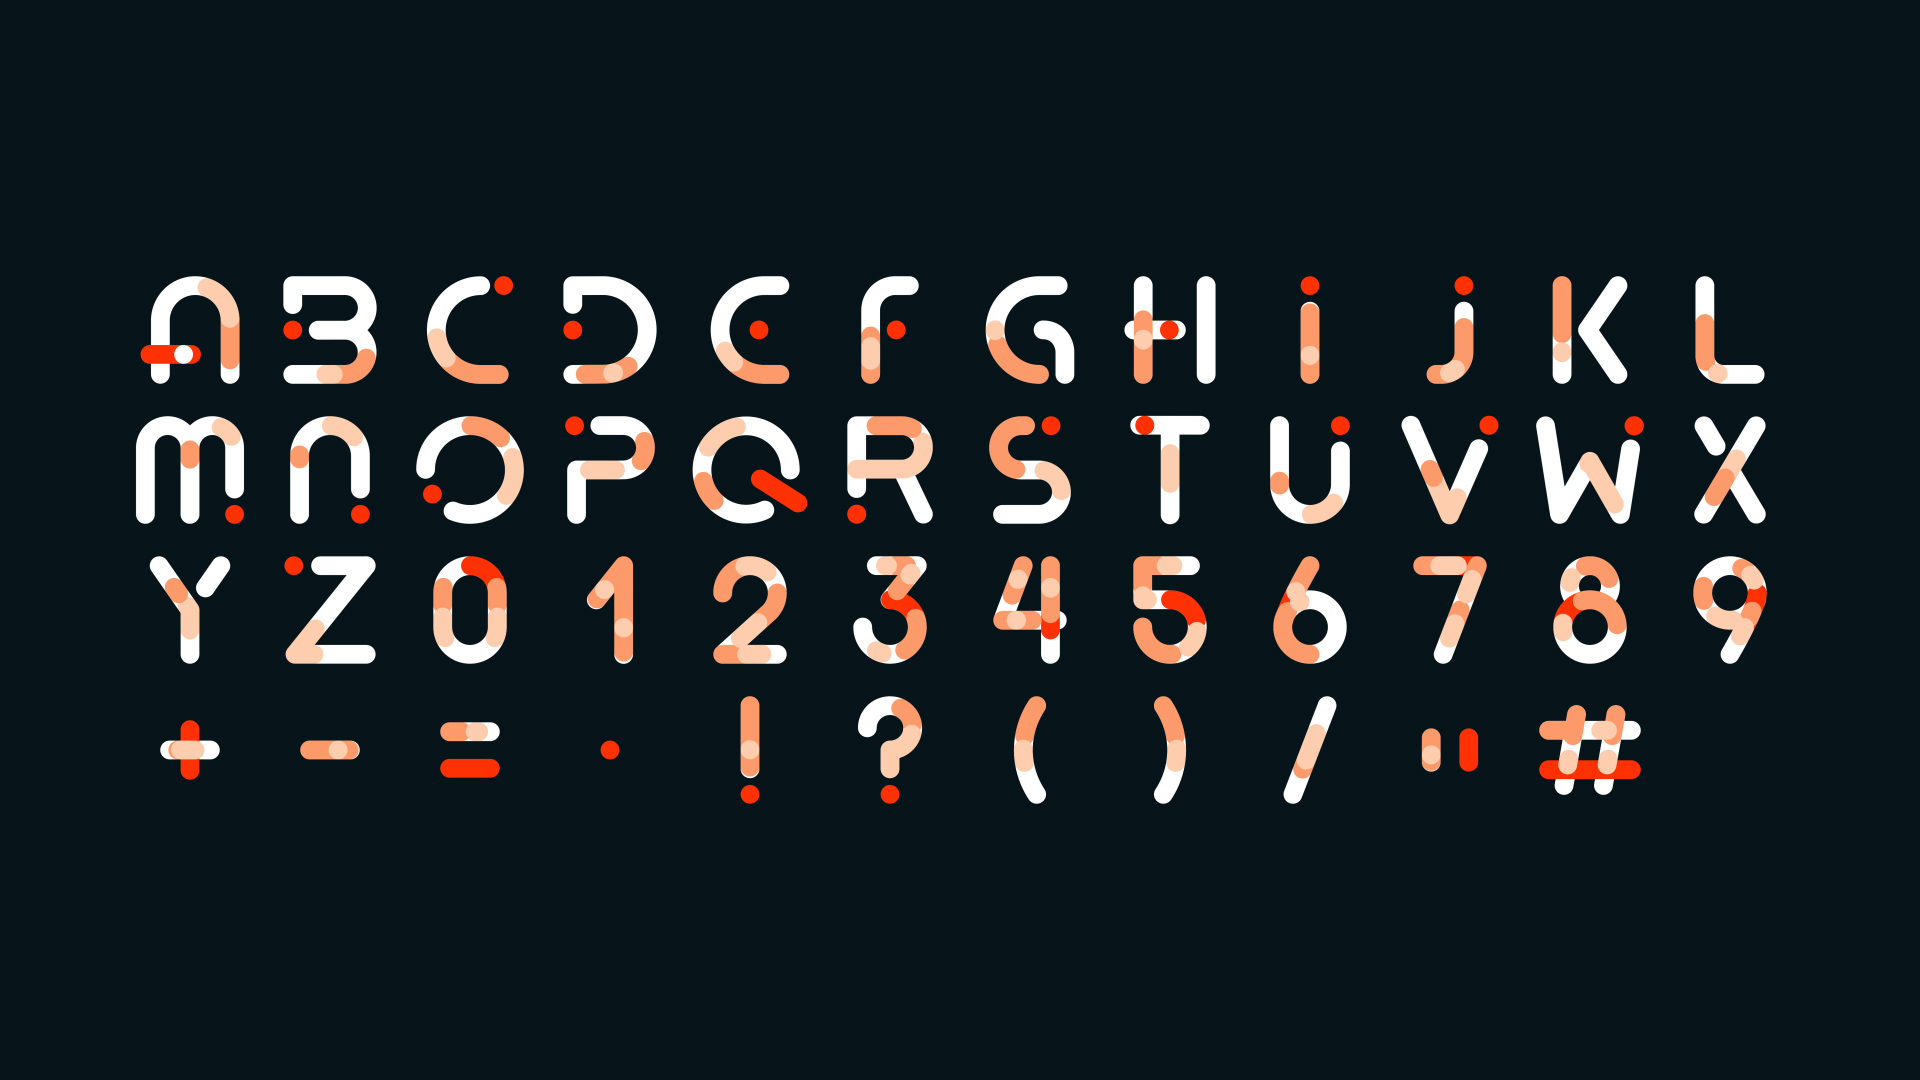
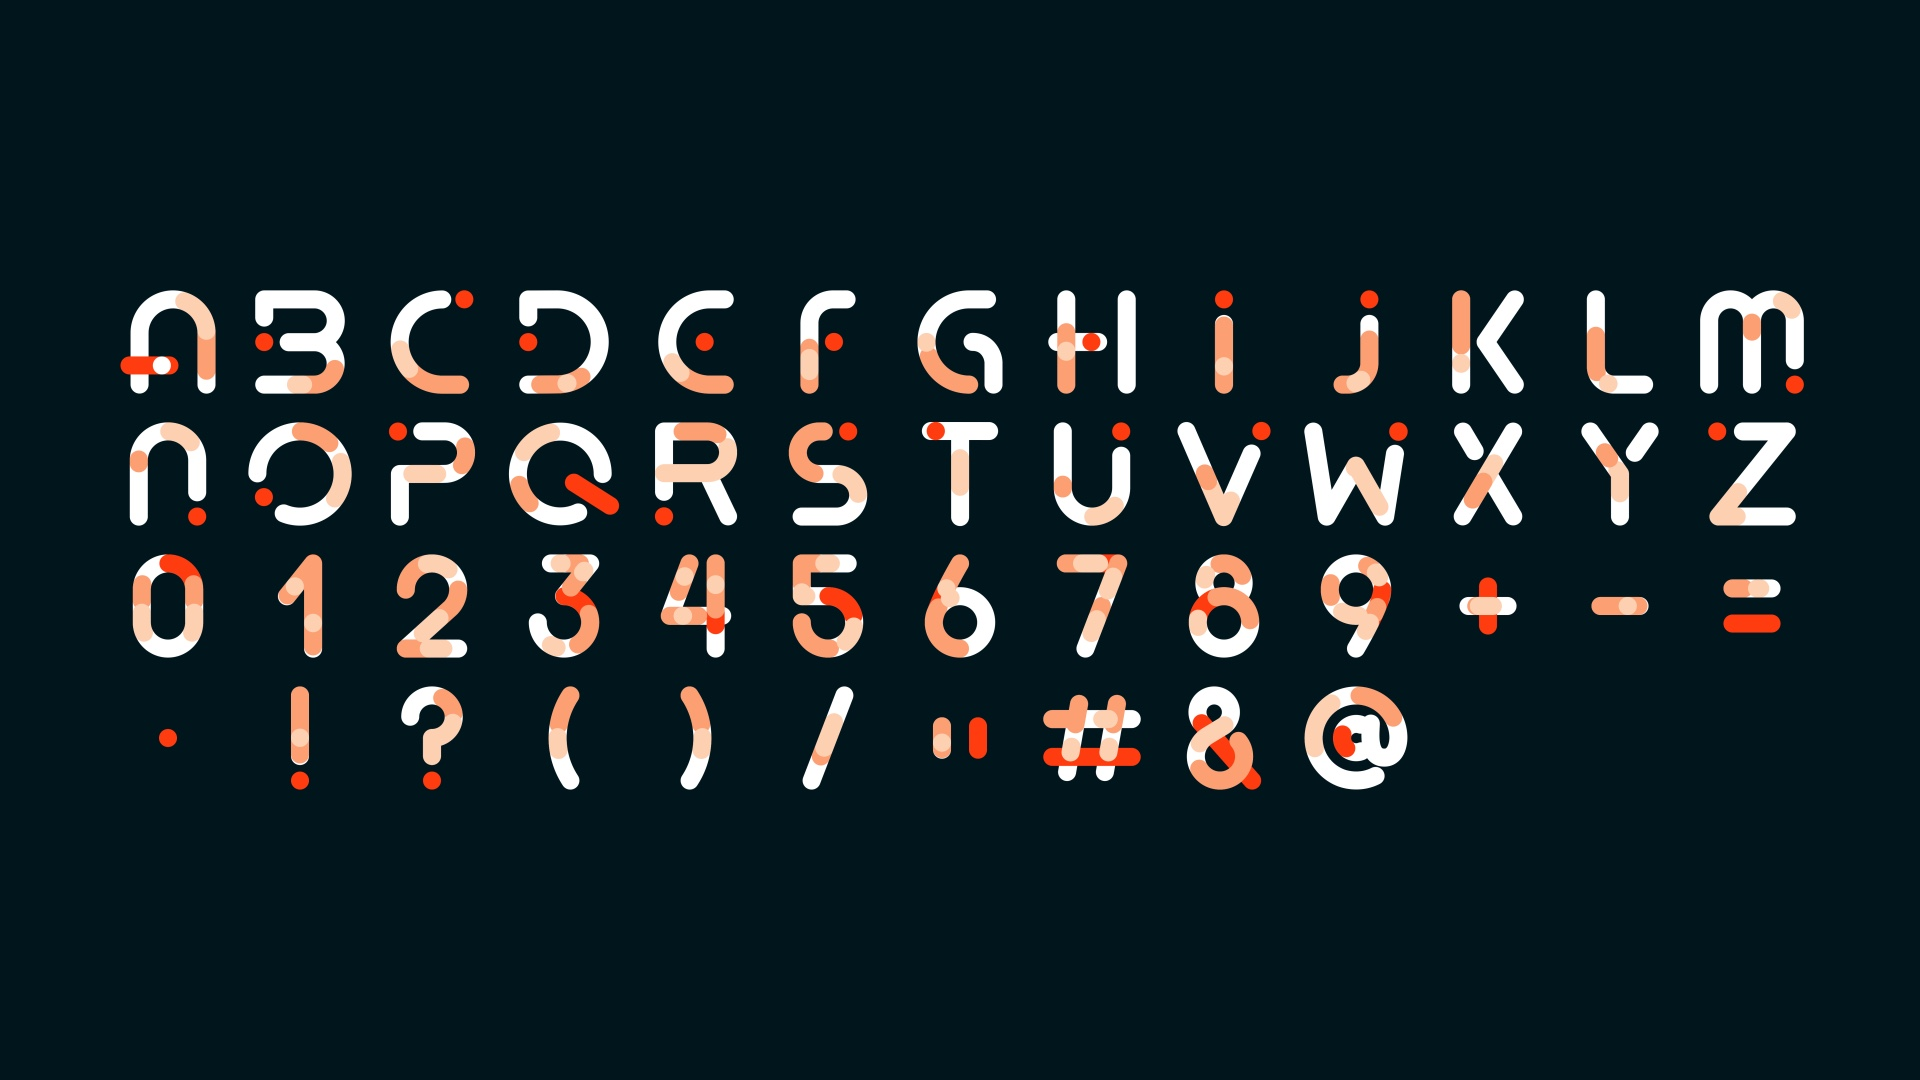
49 characters, YouTube intro link, getting-started step, download 0.4.0

Changed region(s): [[0.0625, 0.2444, 0.9375, 0.7639]]

diff --git a/index.html b/index.html
@@ -7,7 +7,8 @@
 
   Scroll animations: add data-reveal="left" | "right" | "up" to an element and
   js/main.js slides it in when it scrolls into view.
-  The Vimeo video is set in ONE place: VIMEO_ID at the top of js/main.js.
+  The Vimeo background video is set in ONE place: VIMEO_ID at the top of js/main.js.
+  "Watch the introduction video" links to YouTube: its href below (2026-10-29).
 -->
 <html lang="en">
 <head>
@@ -65,7 +66,7 @@
         <p class="lead">Trim Shady lives in one panel, right next to your comp. Type a word, choose your colors and rhythm, and it builds itself as native layers, ready for any project.</p>
         <div class="buttons">
           <a class="button" href="#get-it">Get Trim Shady</a>
-          <a class="button ghost" id="film-link" href="#" target="_blank" rel="noopener">Watch the 60-second film</a>
+          <a class="button ghost" id="film-link" href="https://youtu.be/t0fxN_1F6S0" target="_blank" rel="noopener">Watch the introduction video</a>
         </div>
       </div>
     </section>
@@ -85,7 +86,7 @@
           <h3>Multiline text input</h3>
           <p>Type a single word or a full headline. Press Enter for a new line, and every line builds up in its own rhythm.</p>
           <ul class="points">
-            <li>47 characters: A–Z, 0–9 and 11 symbols</li>
+            <li>49 characters: A–Z, 0–9 and 13 symbols</li>
             <li>Left, center or right aligned</li>
             <li>The comp is named for you</li>
           </ul>
@@ -155,10 +156,10 @@
     <section class="section alphabet" id="alphabet">
       <div class="head" data-reveal="up">
         <p class="kicker">The alphabet</p>
-        <h2 class="title">47 characters, one animated typeface.</h2>
+        <h2 class="title">49 characters, one animated typeface.</h2>
         <p class="lead narrow">Letters, numbers and punctuation, ready for your headlines.</p>
       </div>
-      <img class="alphabet-img" src="img/alphabet.jpg" width="1920" height="1080" alt="All 47 characters of the Trim Shady alphabet: A to Z, 0 to 9 and 11 symbols" loading="lazy" data-reveal="up">
+      <img class="alphabet-img" src="img/alphabet.jpg" width="1920" height="1080" alt="All 49 characters of the Trim Shady alphabet: A to Z, 0 to 9 and 13 symbols" loading="lazy" data-reveal="up">
     </section>
 
     <!-- 05 Get it: the sign-up form (Kit) comes here in the next step. -->
@@ -214,7 +215,7 @@
       <dl class="faq-list" data-reveal="up">
         <div><dt>Does it work without other plugins?</dt><dd>Yes. Everything is native to After Effects.</dd></div>
         <div><dt>Can I edit the result by hand?</dt><dd>Yes. Every word is made of native shape layers and precomps.</dd></div>
-        <div><dt>Which characters are included?</dt><dd>A–Z, 0–9 and 11 symbols, in an uppercase display style.</dd></div>
+        <div><dt>Which characters are included?</dt><dd>A–Z, 0–9 and 13 symbols, in an uppercase display style.</dd></div>
         <div><dt>Can I use it in commercial work?</dt><dd>Yes. Trim Shady is free, also for client work. Please don't resell or share the tool itself; point people to this page instead.</dd></div>
         <div><dt>Which After Effects versions are supported?</dt><dd class="tbd">To be confirmed after the team test round.</dd></div>
         <div><dt>Where do I get support?</dt><dd class="tbd">Support channel to be decided.</dd></div>

diff --git a/js/main.js b/js/main.js
@@ -1,31 +1,25 @@
 /* ---------------------------------------------------------------------------
    Trim Shady · landing page script
    1. Hero video: the intro film from Vimeo, muted, looping, in the background.
-   2. "Watch the 60-second film": opens the same film on Vimeo, with sound.
+   2. (The "Watch the introduction video" button links to YouTube straight from
+      index.html since 2026-10-29; this script no longer sets it.)
    3. Scroll reveal: elements with data-reveal slide in when they come into view.
    4. Menu on smaller screens: the hamburger opens and closes the section links.
    --------------------------------------------------------------------------- */
 
 // ---- Settings ---------------------------------------------------------------
 // The Vimeo video ID: the number at the end of the link, e.g. 123456789 for
-// https://vimeo.com/123456789. Empty = the hero shows its poster image and the
-// film button stays inactive. (A private "unlisted" link has a second part,
+// https://vimeo.com/123456789. Empty = the hero shows its poster image. (A private "unlisted" link has a second part,
 // e.g. https://vimeo.com/123456789/abcdef1234: put that part in VIMEO_HASH.)
 const VIMEO_ID = "1233022742";   // "Trim Shady" intro film (public, Vimeo Plus: background mode allowed)
 const VIMEO_HASH = "";
 
 document.documentElement.classList.add("js");
 
-// ---- 1 + 2. Vimeo -------------------------------------------------------------
+// ---- 1. Vimeo -----------------------------------------------------------------
 (function setUpFilm() {
   const media = document.getElementById("hero-media");
-  const link = document.getElementById("film-link");
-  if (!VIMEO_ID) {
-    link.setAttribute("aria-disabled", "true");
-    link.title = "The film is coming soon";
-    link.addEventListener("click", (e) => e.preventDefault());
-    return;
-  }
+  if (!VIMEO_ID) { return; }
   // background=1: Vimeo's background mode (autoplay, muted, looped, no controls).
   const hash = VIMEO_HASH ? "&h=" + VIMEO_HASH : "";
   const iframe = document.createElement("iframe");
@@ -37,8 +31,6 @@ document.documentElement.classList.add("js");
   // Fade the poster out once the player has loaded (the poster stays as fallback).
   iframe.addEventListener("load", () => setTimeout(() => media.classList.add("playing"), 800));
   media.appendChild(iframe);
-
-  link.href = "https://vimeo.com/" + VIMEO_ID + (VIMEO_HASH ? "/" + VIMEO_HASH : "");
 })();
 
 // ---- 3. Scroll reveal ---------------------------------------------------------

diff --git a/download.html b/download.html
@@ -9,8 +9,9 @@
 
   The download link is set in ONE place: the button after the DOWNLOAD_URL
   comment below. It is the Dropbox link of dist/TrimShady-<version>.zip with dl=1.
-  New version: overwrite the zip in Dropbox under the same name to keep the
-  link, or paste the new link here and publish (tools/publish-landing.sh).
+  New version: upload the new zip NEXT TO the old ones (older zips stay in
+  Dropbox for the archive), paste its link here and publish
+  (tools/publish-landing.sh). 0.4.0 since 2026-10-29; 0.3.0 is archived.
 -->
 <html lang="en">
 <head>
@@ -35,7 +36,7 @@
       <h1 class="title">Thanks! Here is Trim Shady.</h1>
       <p class="lead">Download the package, unzip it and open "Read Me First". We've also sent you a short email: confirm it to get the occasional Trim Shady news.</p>
       <!-- DOWNLOAD_URL -->
-      <a class="button big" id="download-button" href="https://www.dropbox.com/scl/fi/tzwf8r9dwllsvyt21k08g/TrimShady-0.3.0.zip?rlkey=trsbyxf6iplv54nxd16krt4yn&amp;dl=1">Download Trim Shady 0.3.0</a>
+      <a class="button big" id="download-button" href="https://www.dropbox.com/scl/fi/19tc9qrxr0sbgx2r6v46g/TrimShady-0.4.0.zip?rlkey=l4uj063kdmsnemjgnmulugowg&amp;dl=1">Download Trim Shady 0.4.0</a>
       <p class="small-note">Zip file, about 1 MB · macOS and Windows · After Effects 2021 or later</p>
     </div>
 
@@ -43,6 +44,8 @@
       <li><strong>Unzip</strong> the download and open <strong>Read Me First</strong>.</li>
       <li>Get the free <a href="https://aescripts.com/learn/zxp-installer/">aescripts ZXP Installer</a>, quit After Effects, and drag the <strong>.zxp</strong> file onto it.</li>
       <li>Start After Effects and open <strong>Window &gt; Extensions &gt; Trim Shady</strong>. Type a word and click Build.</li>
+      <li>New to the panel? <strong>Watch the getting-started video</strong> and make your first word in no time.
+        <a class="button" href="https://youtu.be/r4UsCuTu35A" target="_blank" rel="noopener">Getting started with Trim Shady</a></li>
     </ol>
 
     <p class="small-note center">Made something with it? Found a bug, or have an idea? Reply to the email you got from us. We would love to see it.<br>

diff --git a/css/style.css b/css/style.css
@@ -224,7 +224,7 @@ h1, h2, h3, p, ul, dl, dd { margin: 0; }
 .small-note a, .install-steps a { color: var(--ink); text-underline-offset: 3px; }
 .install-steps {
   counter-reset: step; list-style: none; margin: 0; padding: 0;
-  display: grid; grid-template-columns: repeat(3, 1fr); gap: 24px; max-width: 1000px; width: 100%;
+  display: grid; grid-template-columns: repeat(4, 1fr); gap: 24px; max-width: 1240px; width: 100%;
 }
 .install-steps li {
   counter-increment: step; padding: 28px 24px 24px; border-top: 1px solid var(--line);
@@ -232,6 +232,9 @@ h1, h2, h3, p, ul, dl, dd { margin: 0; }
 }
 .install-steps li::before { content: "0" counter(step); display: block; margin-bottom: 12px; font: 900 16px var(--sans); letter-spacing: 0.06em; color: var(--coral-deep); }
 .install-steps strong { color: var(--ink); }
+/* Step 04's button: it wraps inside the narrow column instead of overflowing. */
+.install-steps .button { display: block; margin-top: 18px; color: var(--paper); text-align: center; white-space: normal; line-height: 1.35; }
+@media (max-width: 1100px) { .install-steps { grid-template-columns: repeat(2, 1fr); max-width: 760px; } }
 @media (max-width: 800px) { .install-steps { grid-template-columns: 1fr; } }
 
 /* ---- Footer -------------------------------------------------------------- */
